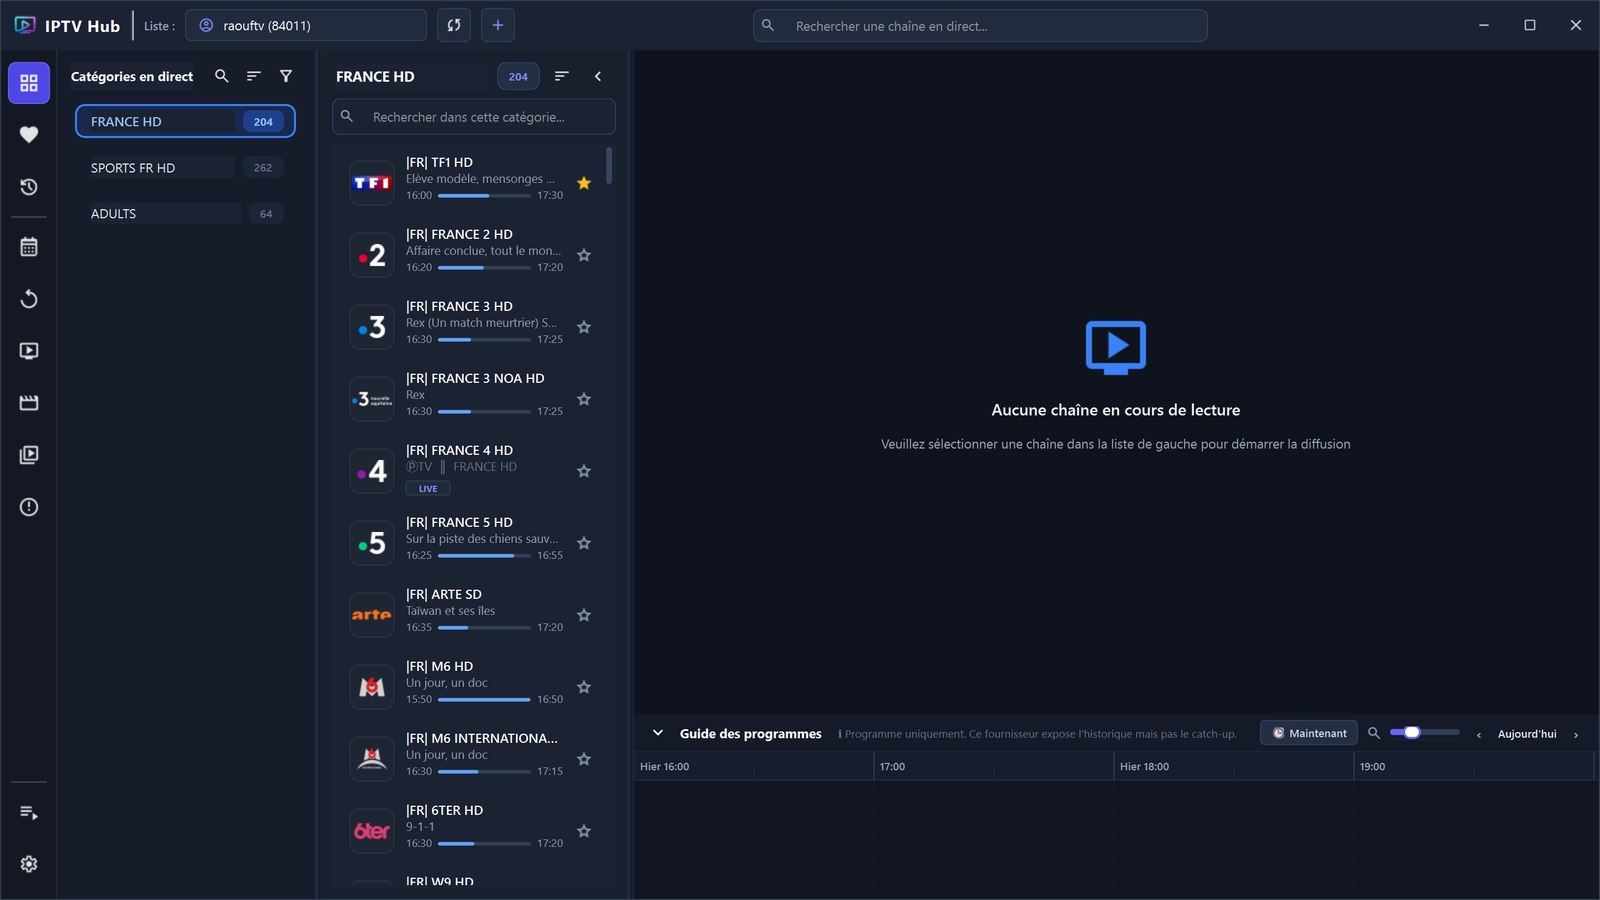
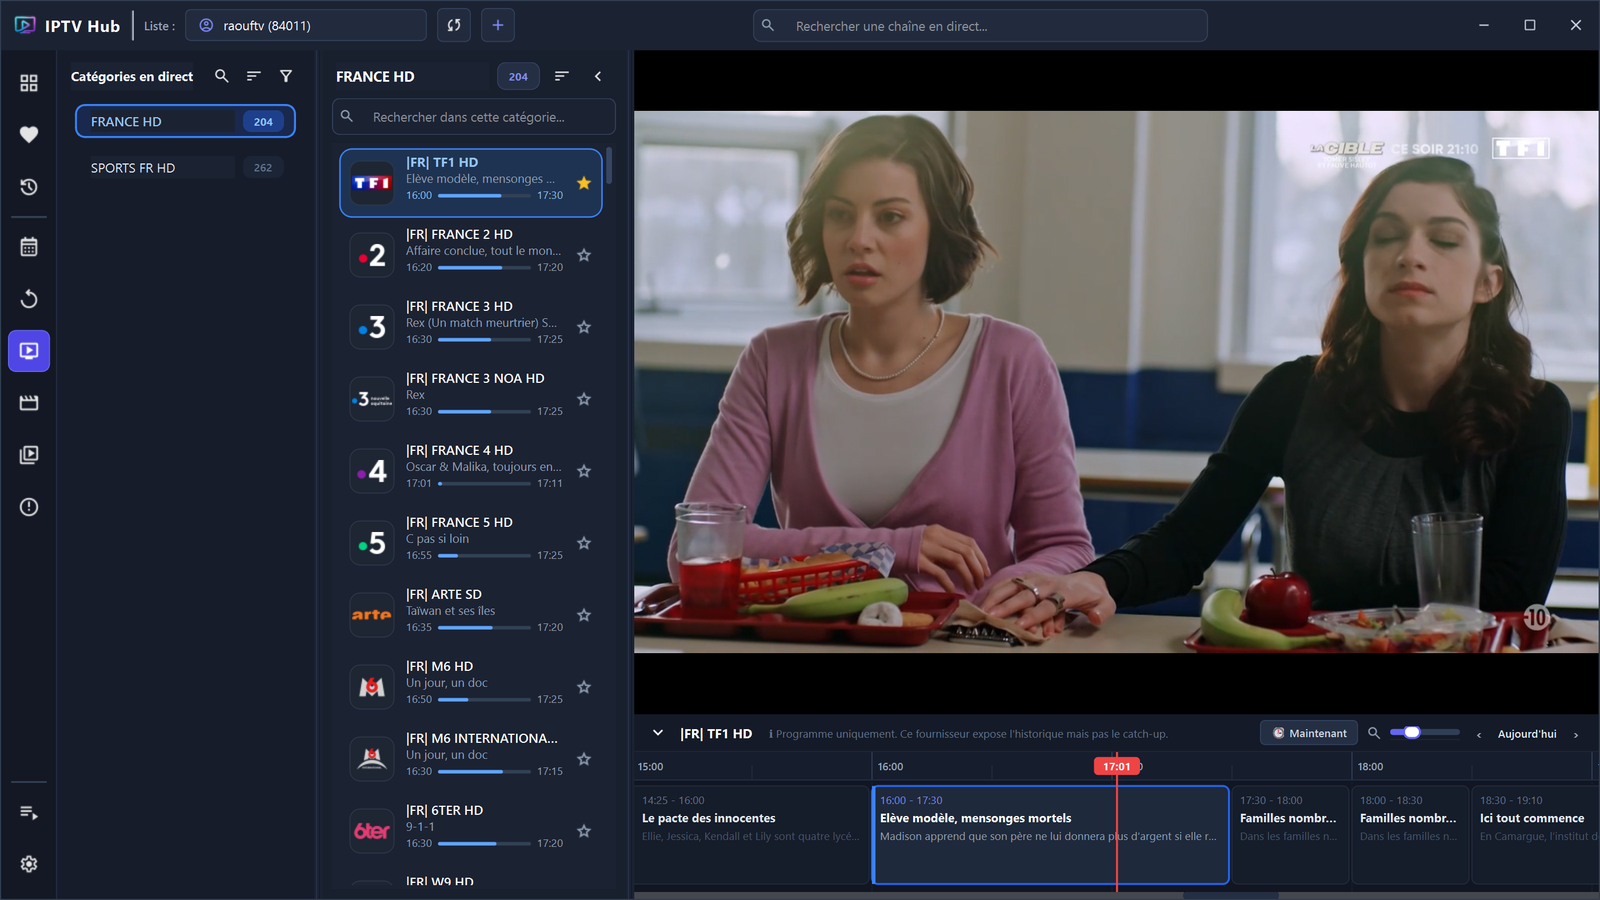
docs: mise à jour des captures (TV en direct active, vignettes séries, fiche artiste) et ajout du disclaimer

diff --git a/README.md b/README.md
@@ -44,12 +44,12 @@
     <td align="center" width="50%">
       <img src="docs/screenshots/live.png" alt="Télévision en Direct" width="100%">
       <br>
-      <b>📺 TV en Direct : lecteur libmpv, chaînes et guide en temps réel</b>
+      <b>📺 TV en Direct : diffusion active, lecteur matériel libmpv et guide en temps réel</b>
     </td>
     <td align="center" width="50%">
       <img src="docs/screenshots/epg.png" alt="Guide TV Chronologique" width="100%">
       <br>
-      <b>📅 Guide Électronique des Programmes (EPG Grid)</b>
+      <b>📅 Guide Électronique des Programmes (Grille EPG interactive)</b>
     </td>
   </tr>
   <tr>
@@ -61,18 +61,22 @@
     <td align="center" width="50%">
       <img src="docs/screenshots/series.png" alt="Séries TV" width="100%">
       <br>
-      <b>🍿 Séries TV : navigation par groupe et fiches détaillées</b>
+      <b>🍿 Séries TV : navigation par genre et suivi de visionnage</b>
+    </td>
+  </tr>
+  <tr>
+    <td align="center" width="50%">
+      <img src="docs/screenshots/series_detail.png" alt="Détail d'une série et épisodes" width="100%">
+      <br>
+      <b>📑 Fiche détaillée d'une série : saisons, vignettes 16:9 et barres d'avancement</b>
+    </td>
+    <td align="center" width="50%">
+      <img src="docs/screenshots/artist.png" alt="Fiche Artiste et Filmographie" width="100%">
+      <br>
+      <b>🌟 Fiche Artiste : biographie TMDB et filmographie disponible dans la playlist</b>
     </td>
   </tr>
 </table>
-
-<br>
-
-<p align="center">
-  <img src="docs/screenshots/series_detail.png" alt="Détail d'une série et épisodes" width="95%">
-  <br>
-  <em>Fiche détaillée d'une série : sélecteur de saisons, épisodes et badges de progression de visionnage</em>
-</p>
 
 ---
 
@@ -98,10 +102,10 @@ Vous pouvez télécharger la version adaptée à votre système directement depu
 - **Grille EPG interactive** : Vue chronologique complète avec curseur d'avancement horaire.
 
 ### 🎬 Vidéo à la Demande (Films & Séries)
-- **Métadonnées et enrichissement TMDB** : Récupération automatique des affiches officielles, synopsis, casting, notes et dates de sortie.
-- **Filmographie des artistes** : Cliquez sur un acteur ou un réalisateur pour explorer l'ensemble de ses films disponibles dans votre playlist !
-- **Gestion intelligente des séries** : Sélecteur clair des saisons et épisodes, reprise automatique de lecture et enchaînement automatique de l'épisode suivant (*Auto-Play*).
-- **Indicateurs de progression** : Suivi précis du temps visionné par épisode et par film.
+- **Métadonnées et enrichissement TMDB** : Récupération automatique des affiches officielles, synopsis, casting complet, notes et dates de sortie.
+- **Recherche & Filmographie par artiste** : Effectuez des recherches ciblées par acteur ou réalisateur (ou cliquez sur n'importe quel artiste dans une fiche) pour découvrir sa biographie complète et retrouver tous ses films et séries disponibles dans votre playlist !
+- **Gestion intelligente des séries** : Sélecteur clair des saisons et épisodes, affichage des vignettes 16:9, reprise automatique de lecture et enchaînement automatique de l'épisode suivant (*Auto-Play*).
+- **Indicateurs de progression visuelle** : Suivi précis du temps visionné sous chaque épisode avec barres d'avancement et pastilles de complétion.
 
 ### ⏪ Replay TV (Catchup)
 - Visionnage en différé des programmes passés jusqu'à 7 jours en arrière sur les chaînes compatibles (Xtream Catchup & Flussonic).
@@ -182,6 +186,14 @@ pip install -r requirements.txt
 # 4. Lancer l'application
 python main.py
 ```
+
+---
+
+## ℹ Note importante & Avertissement bienveillant
+
+> 🍿 **Un lecteur 100% neutre, à votre service !**  
+> **IPTV Hub** est exclusivement un **lecteur multimédia** (*player* logiciel open-source). L'application **ne fournit, n'héberge et ne distribue aucun contenu, aucun flux vidéo, aucun média ni aucune liste de chaînes**.  
+> Vous êtes entièrement libre d'utiliser les listes de lecture (fichiers M3U ou comptes Xtream) légalement mises à votre disposition par vos fournisseurs légitimes. Installez, ajoutez votre propre playlist, et profitez simplement de la meilleure expérience de visionnage sur votre PC !
 
 ---
 
